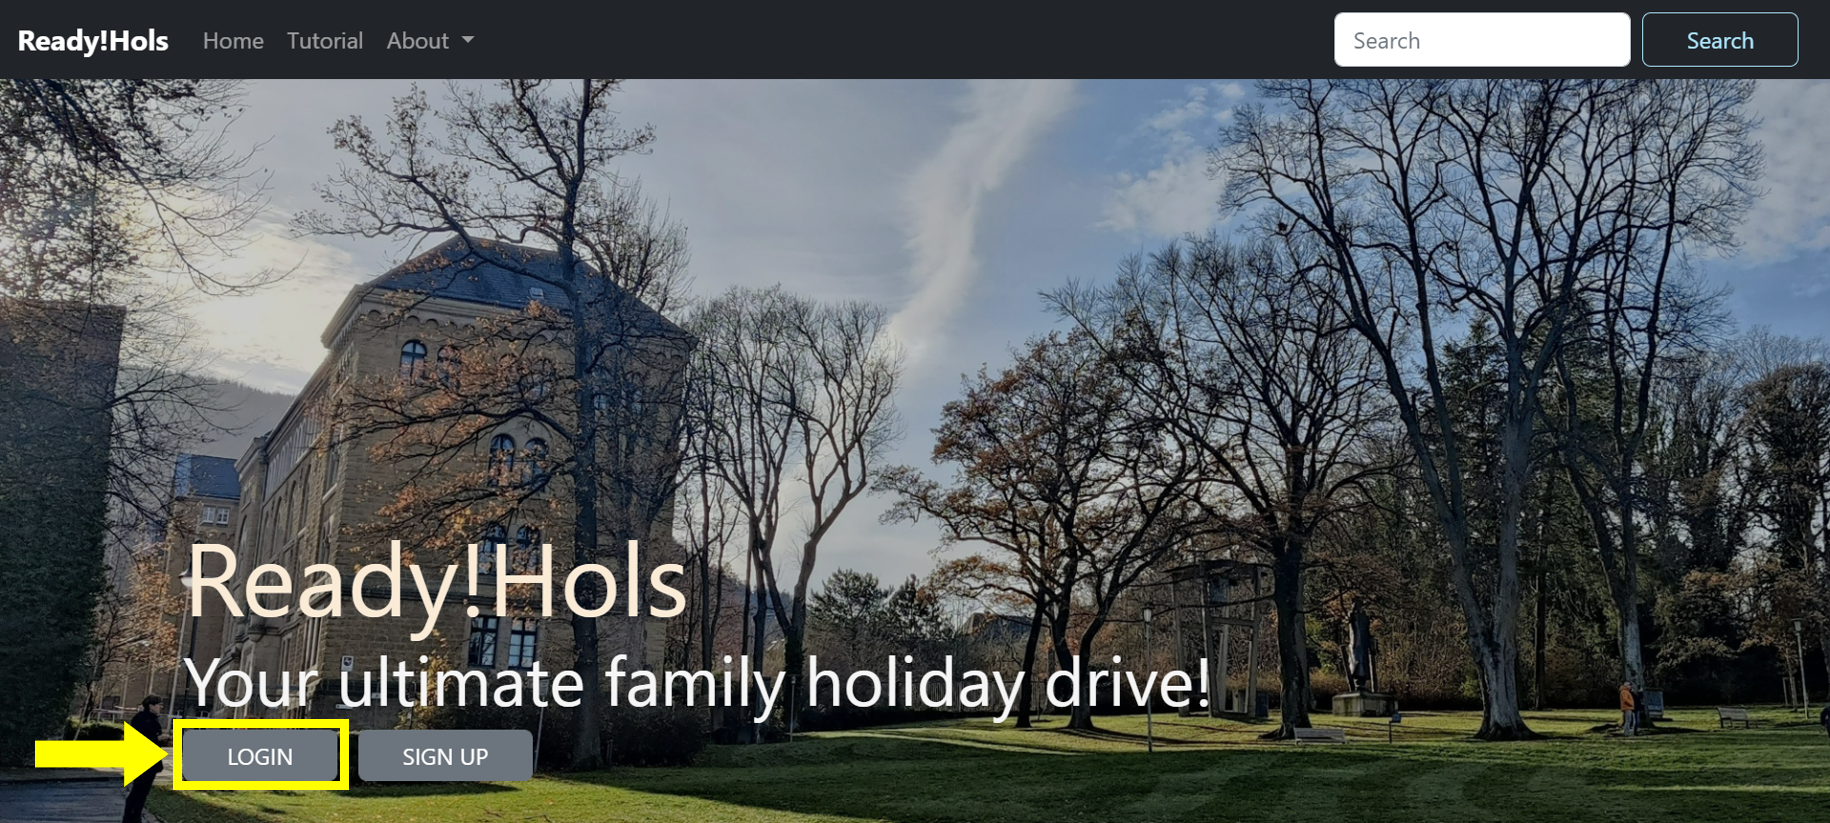
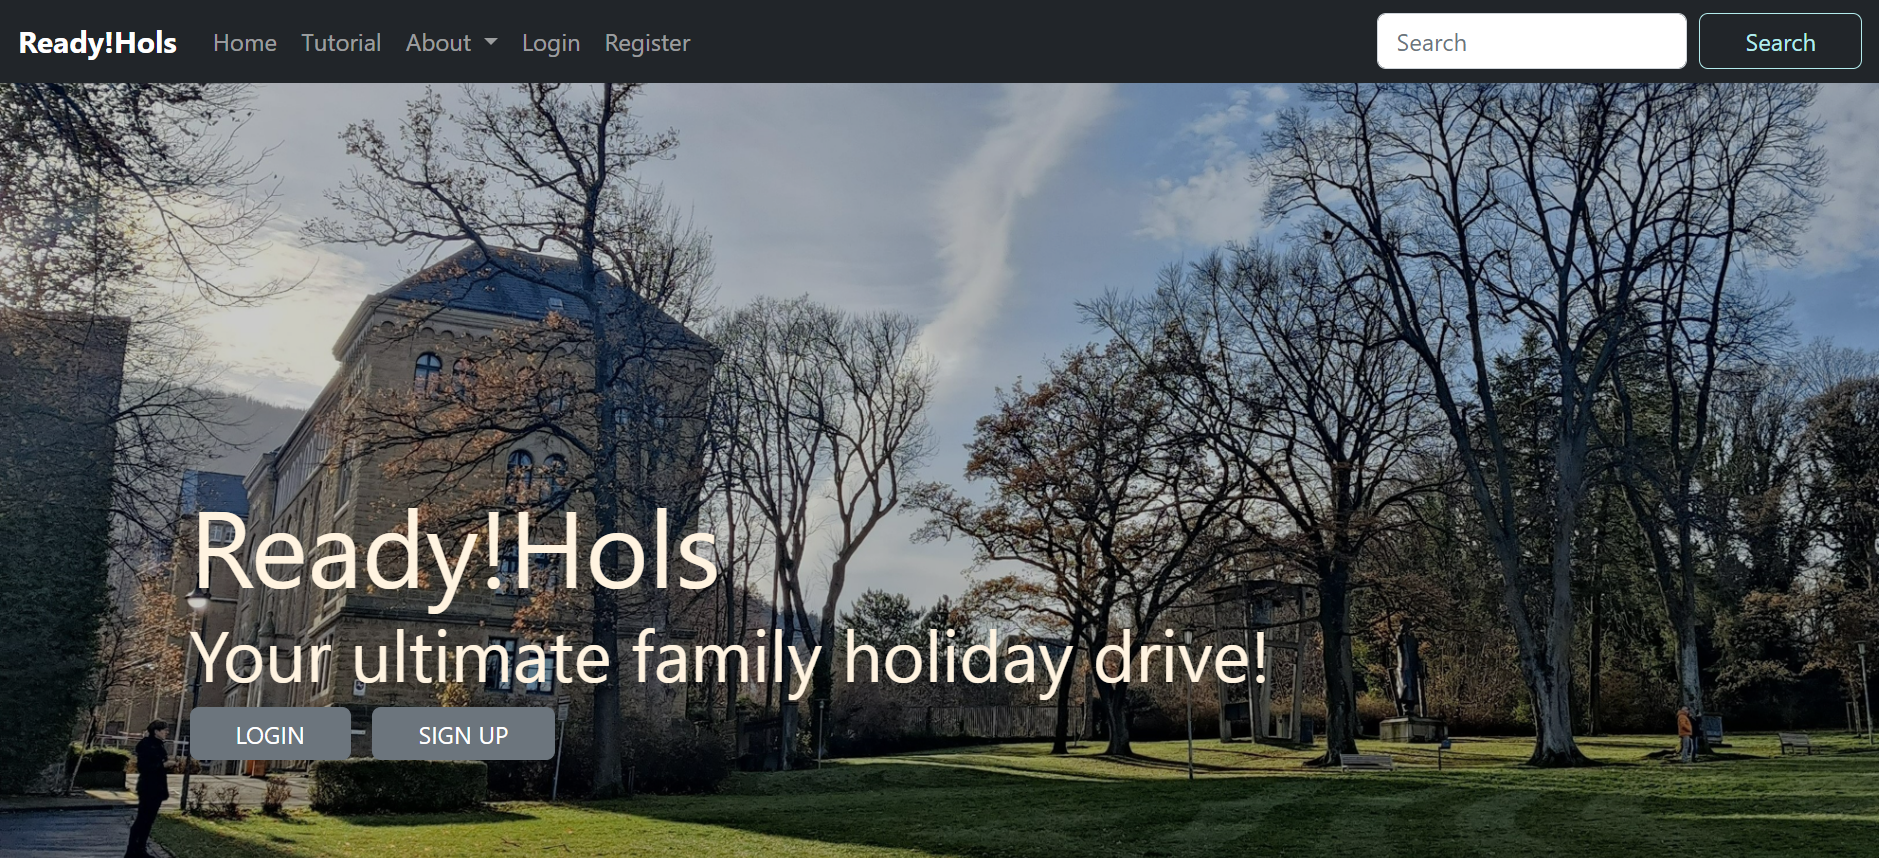
Update (20 Jan 2)

diff --git a/n-login/html/home.html b/n-login/html/home.html
@@ -35,8 +35,8 @@
         <div class="row align-items-center">
           <div class="col">
             <h1>
-                <div class="display-2" style="color:antiquewhite"><strong>Ready!Hols</strong></div>
-                <div class="display-5" style="color:whitesmoke"><strong>Your ultimate family holiday drive!</strong></div>
+                <div class="display-2" style="color:#fff3e0"><strong>Ready!Hols</strong></div>
+                <div class="display-5" style="color:fff3e0"><strong>Your ultimate family holiday drive!</strong></div>
             </h1>
             <a href="/n-login/html/login.html" class="btn btn-secondary">LOGIN</a>
             <a href="/n-login/html/sign-up.html" class="btn btn-secondary">SIGN UP</a>
@@ -52,7 +52,7 @@
                     <div class="card-body">
                       <h5 class="card-title">Basic Plan</h5>
                       <p class="card-text">Default plan. Enjoy joining several vacations and share them with your friends!</p>
-                      <a href="/n-login/html/learn-more.html" class="btn btn-primary">Find Out More</a>
+                      <a href="/n-login/html/learn-more.html" class="btn btn-secondary">Find Out More</a>
                     </div>
                 </div>
             </div>
@@ -62,7 +62,7 @@
                     <div class="card-body">
                       <h5 class="card-title">Plus Plan</h5>
                       <p class="card-text">Enjoy additional functionalities! Be able to plan, enjoy and share your vacations with others!</p>
-                      <a href="/n-login/html/learn-more.html" class="btn btn-primary">Find Out More</a>
+                      <a href="/n-login/html/learn-more.html" class="btn btn-secondary">Find Out More</a>
                     </div>
                 </div>
             </div>
@@ -72,7 +72,7 @@
                     <div class="card-body">
                       <h5 class="card-title">Premium Plan</h5>
                       <p class="card-text">Enjoy unlimited features offered, with full-fledged functionalities at your very fingertips!</p>
-                      <a href="/n-login/html/learn-more.html" class="btn btn-primary">Find Out More</a>
+                      <a href="/n-login/html/learn-more.html" class="btn btn-secondary">Find Out More</a>
                     </div>
                 </div>
             </div>

diff --git a/n-login/css/style.css b/n-login/css/style.css
@@ -1,9 +1,26 @@
 /* theme colors
-#F7F9F9
-#4B5358
-#BED8D4
-#6DBCBD
-#AFE8FF
+Grayscale
+#18191A
+#242526
+#3A3B3C
+#E4E6EB
+#B0B3B8
+
+Orange
+#fdddb6
+#fff3e0
+Green
+#b5eadb
+#e3f6f0
+Purple
+#c8cef3
+#e9ebfa
+Blue
+#b3eced
+#e1f6f8
+Red
+#e1cfbb
+#fae9e5
 */
 
 .col{padding-top: 1%}
@@ -23,6 +40,24 @@
     margin-right: 2%;
 }
 
+/* .accordion-item{
+    background: #E4E6EB;
+} */
+
+.accordion-button{
+    background:#E4E6EB;
+}
+
+.accordion-button:visited, .accordion-button:visited, .accordion-button:hover, .accordion-button:active{
+    background-color: #B0B3B8;
+    color:black;
+}
+
+.accordion-button:not(.collapsed){
+    background-color: #B0B3B8;
+    color: black;
+}
+
 .contact-us-container{
     text-align: center;
     margin: 5%;
@@ -31,7 +66,7 @@
 .login-container{
     margin: 12% 5% 10% 5%;
     padding:8% 5%;
-    background-color: aliceblue;
+    background-color: #E4E6EB;
     border-radius: 20px;
     box-shadow: 100px;
 }
@@ -43,11 +78,11 @@
 .sign-up-container-left{ margin: 5% 5% 10% 5%;}
 
 .btn:hover{
-    background-color: #55CFFD;
+    scale: 1.05;
 }
 
 .upgrade-plan-container{
-    margin-top: 5%;
+    margin-top: 10%;
     margin-left: 9.5%;
     margin-right: 9.5%;
     margin-bottom: 5%;

diff --git a/login/settings/settings.html b/login/settings/settings.html
@@ -46,7 +46,7 @@
                       </div>
                       
                     </fieldset>
-                    <button type="submit" class="btn btn-primary">Edit</button>
+                    <button type="submit" class="btn btn-secondary">Edit</button>
             
                 </form>
             </div>
@@ -58,7 +58,7 @@
                 <form class="d-flex" role="search" style="margin-top:auto; margin-bottom: 2%;">
                   <input type="number" id="vacation-id" class="form-control" placeholder="Input Vacation ID" style="margin-right:2%">
                   <input type="number" id="vacation-id-pin" class="form-control" placeholder="Input Vacation ID Pin" style="margin-right:2%">
-                  <button class="btn btn-outline-success" type="submit">Add</button>
+                  <button class="btn btn-outline-secondary" type="submit">Add</button>
                 </form>
                 
                 <div class="accordion" id="accordionVacationGroup">

diff --git a/login/vacations/itinerary/itinerary.css b/login/vacations/itinerary/itinerary.css
@@ -27,3 +27,31 @@ background:linear-gradient(#949fa1,#4e5354);
   border-bottom-right-radius: 10px;
   padding: 2%;
 }
+
+.accordion-button{
+  background:#E4E6EB;
+}
+
+.accordion-button:visited, .accordion-button:visited, .accordion-button:hover, .accordion-button:active{
+  background-color: #B0B3B8;
+  color:black;
+}
+
+.accordion-button:not(.collapsed){
+  background-color: #B0B3B8;
+  color: black;
+}
+
+.nav-link:hover{
+  scale:1.05;
+}
+
+
+.nav-pills>li.nav-item>button.nav-link:active,.nav-pills>li.nav-item>button.nav-link:visited,.nav-pills>li.nav-item>button.nav-link:focus,.nav-pills>li.nav-item>button.nav-link{
+  background-color: #fdddb6;
+  color:black;
+}
+
+.nav-pills>li.nav-item>button.nav-link:not(.active){
+  background-color:transparent;
+}

diff --git a/login/vacations/vacations.html b/login/vacations/vacations.html
@@ -22,10 +22,18 @@
     .vacation-card{
         margin-right:0%;
         margin-top: 0%;
-        background-color:#AFE8FF;
+        background-color:#c8cef3;
         padding: 20px;
         border-radius: 5px;
     }
+
+    a{
+        color:#242526;
+    }
+
+    a:hover{
+        color:#3A3B3C;
+    }  
 
 </style>
 <body>
@@ -126,7 +134,7 @@
                       <li><a class="dropdown-item" href="#">Description</a></li>
                     </ul>
                   </div>
-                  <button class="btn btn-outline-success" type="submit">Search</button>
+                  <button class="btn btn-outline-secondary" type="submit">Search</button>
                 </form>
                 <p></p>
                 <table class="table table-hover">

diff --git a/login/vacations/summary/summary.css b/login/vacations/summary/summary.css
@@ -27,11 +27,25 @@ background:linear-gradient(#949fa1,#4e5354);
     border-radius:100px;
 }
 
-.nav-pills.nav-link.active,
-  .show > .nav-link {
-    color: #949fa1;
-    background-color: #4e5354;
+/* .nav-link{
+  color: black;
+} */
+
+.nav-link:hover{
+  scale:1.05;
 }
+
+
+.nav-pills>li.nav-item>button.nav-link:active,.nav-pills>li.nav-item>button.nav-link:visited,.nav-pills>li.nav-item>button.nav-link:focus,.nav-pills>li.nav-item>button.nav-link{
+  background-color: #fdddb6;
+  color:black;
+}
+
+.nav-pills>li.nav-item>button.nav-link:not(.active){
+  background-color:transparent;
+}
+
+
 
 .calendar-container{
   display:flex;

diff --git a/n-login/html/nav-bar.html b/n-login/html/nav-bar.html
@@ -41,7 +41,7 @@
               </ul>
             <form class="d-flex" role="search" style="margin-top:auto; margin-bottom: auto;" action="/n-login/html/search.html">
                 <input class="form-control me-2" type="search" placeholder="Search" aria-label="Search">
-                <button class="btn btn-outline-success" type="submit" style="color:#AFE8FF; border-color:#AFE8FF;">Search</button>
+                <button class="btn btn-outline" type="submit" style="color:#b3eced; border-color:#b3eced;">Search</button>
             </form>
         </div>
     </div>

diff --git a/login/vacations/sharing/sharing.css b/login/vacations/sharing/sharing.css
@@ -20,6 +20,23 @@ overflow-x: hidden;
 background:linear-gradient(#949fa1,#4e5354);
 }
 
+
+.nav-link:hover{
+  scale:1.05;
+}
+
+
+.nav-pills>li.nav-item>button.nav-link:active,.nav-pills>li.nav-item>button.nav-link:visited,.nav-pills>li.nav-item>button.nav-link:focus,.nav-pills>li.nav-item>button.nav-link{
+  background-color: #fdddb6;
+  color:black;
+}
+
+.nav-pills>li.nav-item>button.nav-link:not(.active){
+  background-color:transparent;
+}
+
+
+
 .tab-custom-container{
   background-color: #F7F9F9;
   height: 75%;

diff --git a/login/vacations/planning/planning.css b/login/vacations/planning/planning.css
@@ -27,3 +27,17 @@ background:linear-gradient(#949fa1,#4e5354);
   border-bottom-right-radius: 10px;
   padding: 2%;
 }
+
+.nav-link:hover{
+  scale:1.05;
+}
+
+
+.nav-pills>li.nav-item>button.nav-link:active,.nav-pills>li.nav-item>button.nav-link:visited,.nav-pills>li.nav-item>button.nav-link:focus,.nav-pills>li.nav-item>button.nav-link{
+  background-color: #fdddb6;
+  color:black;
+}
+
+.nav-pills>li.nav-item>button.nav-link:not(.active){
+  background-color:transparent;
+}

diff --git a/n-login/html/sign-up.html b/n-login/html/sign-up.html
@@ -51,7 +51,7 @@
                 <input type="checkbox" class="form-check-input" id="checkEmail">
                 <label class="form-check-label" for="checkEmail">Please keep me in the loop via email</label>
               </div>
-              <button type="sign-up-button" class="btn btn-primary">Sign Up!</button>
+              <button type="sign-up-button" class="btn btn-secondary">Sign Up!</button>
             </form>
         </div>
       </div>  

diff --git a/n-login/html/login.html b/n-login/html/login.html
@@ -71,7 +71,7 @@
                   Login is clickable for Assignment purposes.
                 </div>
                 <p></p>
-                <button href="/login/vacations/vacations.html" type="login-button" class="btn btn-primary">Login</button>
+                <button href="/login/vacations/vacations.html" type="login-button" class="btn btn-secondary">Login</button>
               </form>
             </div>
             

diff --git a/n-login/html/contact-us.html b/n-login/html/contact-us.html
@@ -46,7 +46,7 @@
             <label for="feedbackContentInput" class="form-label">Please enter your queries/feedback!</label>
             <textarea class="form-control" id="feedbackContentInput" rows="5"></textarea>
           </div>
-          <button class="btn btn-outline-success" type="submit">Email!</button>
+          <button class="btn btn-outline-secondary" type="submit">Email!</button>
         </div>
       </div>
 
